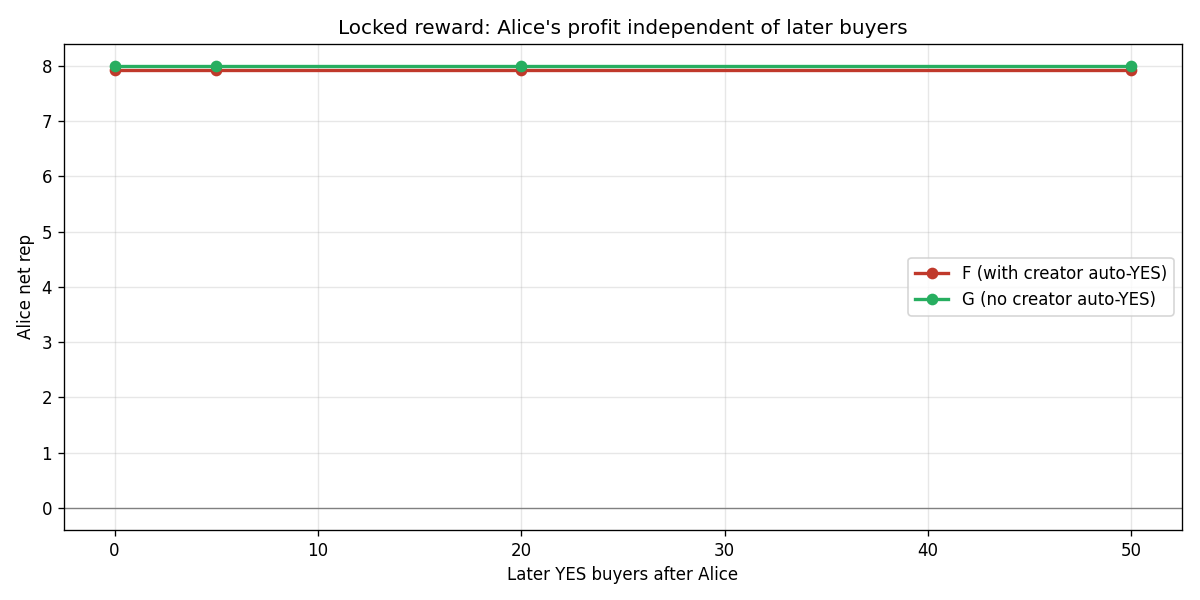
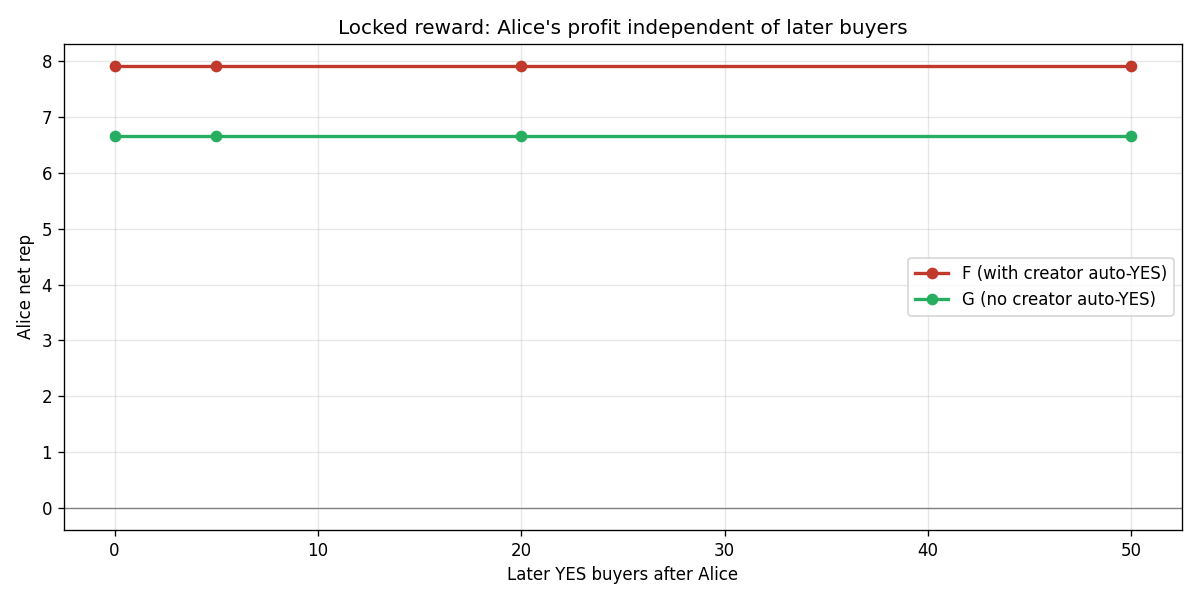
sim(model-g): creator-funded pool seed
User proposal: at claim creation, creator picks X rep (10-100) and
places it on their chosen side; system mirrors X on the opposite
side as virtual liquidity.  Pool starts at Y=N=X.  Creator's X is a
locked position (X shares at the 50% entry price).

Key property: the per-claim mint capacity = X (vs F's fixed 100).
Smaller X = smaller mint cap = less inflation; bigger X = deeper
pool = smoother price for traders.  Creator picks the tradeoff.

Implementation: creator's stake is recorded as a Stake row directly,
no AMM swap (which would shift the price away from 50/50).  Pool
reserves set to X each side at __init__.  Trader buys then use
normal CPMM math on top.

Sim results:
- Locked reward: creator's X shares always pay exactly X on win, 0
  on loss.  Trader's locked-reward property unchanged.
- Trivial-farming attack (10 sybils all YES + N honest NO):
    0-2 dissenters: -2 rep (refund + listing fee)
    3+ dissenters, X=10:  attacker +35, mint +5
    3+ dissenters, X=100: attacker +55, mint +25
- Inflation 180-day drift (vs Model F):
    typical 25% trivial: F +425%, G +102% (-76%)
    worst trivial 100%:  F +1050%, G +113% (-89%)
    homogeneous skill:   F +900%, G +634% (-30%)

HTML updated: resetSim seeds pool from gCreatorStake directly (no
swap).  Creator's locked X shares show in table.  Formula box +
notes describe the new "you fund the pool" mechanic.

diff --git a/report/Rep Score Simulation/simulation.html b/report/Rep Score Simulation/simulation.html
@@ -54,18 +54,17 @@
                     <button class="btn btn-yes" onclick="addRandom(50)">50 Rastgele</button>
                 </div>
                 <div id="gNote" style="display:none; font-size:0.9em; padding: 8px; background: #eafaf1; border-radius: 5px; color:#16a085;">
-                    <strong>Model G</strong> = Model F + dört küçük değişiklik:<br>
-                    1. Yaratıcı claim açılışında <em>kendi seçtiği</em> taraf ve <em>10-100 rep arası</em> stake ile otomatik yatırılır<br>
-                    2. Yaratıcı 2 rep listing fee öder (yakılır) — spam engeli<br>
-                    3. <strong>Trivial claim iadesi:</strong> Kaybeden tarafta &lt; 3 oy <em>VEYA</em> toplam &lt; 5 oy varsa claim trivial sayılır, tüm stakler iade edilir<br>
-                    4. Daha küçük virtual seed (Y₀=N₀=30) — daha az mint per claim<br>
+                    <strong>Model G</strong>:<br>
+                    1. <strong>Yaratıcı havuzu fonlar:</strong> Açılışta X rep (10-100) seçer ve kendi tarafına koyar. Sistem aynı X'i karşı tarafa <em>mirror</em>'lar. Pool Y=N=X ile başlar. Yaratıcının X locked share'i var (50% giriş fiyatı).<br>
+                    2. Yaratıcı 2 rep listing fee öder (yakılır)<br>
+                    3. <strong>Trivial iadesi:</strong> Kaybeden &lt; 3 oy <em>VEYA</em> toplam &lt; 5 oy → tüm stake iadesi<br>
                     <div style="margin-top:6px; padding:6px; background:#fff; border-radius:4px; border:1px solid #d5e8e1;">
                         <strong>Yaratıcı:</strong>
                         Taraf: <select id="gCreatorSide"><option value="YES">EVET</option><option value="NO">HAYIR</option></select>
-                        · Stake: <input id="gCreatorStake" type="number" min="10" max="100" step="10" value="10" style="width:60px;">
+                        · Stake (X): <input id="gCreatorStake" type="number" min="10" max="100" step="10" value="10" style="width:60px;">
                         <button class="btn btn-reset" style="padding:3px 8px; font-size:0.85em; background-color:#16a085;" onclick="applyCreatorAutoStake()">Uygula + Sıfırla</button>
                     </div>
-                    <span style="color:#7f8c8d;">Ödüller satın alma anında kilitli. Gerçekten çözülen claim'lerde shares × 1 rep. Trivial claim'lerde stake iadesi (listing fee yakılı kalır).</span>
+                    <span style="color:#7f8c8d;">X büyük = havuz derin, fiyat sakin, daha çok mint kapasitesi. X küçük = havuz ince, daha az mint.</span>
                 </div>
                 <div style="display: flex; gap: 5px; flex-wrap: wrap;">
                     <button class="btn btn-reset" onclick="togglePayoutMethod()">Payout Değiştir</button>
@@ -320,20 +319,33 @@
         lpSubsidyExposure = 0;
         yesPriceHistory = [getYesPrice()];
         voteHistory = [0];
-        // Model G: creator auto-stake at claim creation
+        // Model G: creator-funded pool seed at claim creation.
+        // Creator's X rep goes directly into their side's reserve.
+        // System mirrors X on opposite side (virtual).  Pool starts X/X,
+        // price 50%.  Creator owns exactly X locked shares.  No AMM
+        // swap on this — price stays at 50% post-seed.
         if (payoutMode === 'g') {
-            const shares = cpmmBuy(gCreatorSide, gCreatorStake);
-            const entryPrice = gCreatorSide === 'YES' ? 0.5 : 0.5;
+            const X = gCreatorStake;
+            yReserve = X;
+            nReserve = X;
+            // Creator's locked position: X shares of their side at 50% entry
             stakes.push({
-                id: stakes.length + 1,  // creator gets id 1
+                id: stakes.length + 1,
                 side: gCreatorSide,
-                entryPrice: entryPrice,
-                weight: shares / gCreatorStake,
-                shares: shares,
+                entryPrice: 0.5,
+                weight: 1.0,
+                shares: X,
                 isCreator: true,
-                stakeAmount: gCreatorStake
+                stakeAmount: X
             });
-            if (gCreatorSide === 'YES') yesCount++; else noCount++;
+            if (gCreatorSide === 'YES') {
+                yesCount++;
+                yesOutstanding += X;
+            } else {
+                noCount++;
+                noOutstanding += X;
+            }
+            cpmmEscrow += X;
             yesPriceHistory.push(getYesPrice());
             voteHistory.push(yesCount + noCount);
         }
@@ -397,13 +409,13 @@
             `;
         } else if (payoutMode === 'g') {
             formulaDiv.innerHTML = `
-                <strong>Model G = Model F + üç değişiklik:</strong><br>
-                <strong>Aynı:</strong> CPMM payoutları, sabit 10 rep stake, 1 pozisyon/claim, enerji limiti, virtual likidite (Y₀=N₀=${CPMM_INIT_L}). <strong>Ödüller satın alma anında kilitli</strong> (F gibi).<br>
-                <strong>Fark 1:</strong> Claim açılışında yaratıcı OTOMATIK EVET'e yatırılmaz. Manuel oy verebilir → trivial claim farming kapatıldı (#76 P2).<br>
-                <strong>Fark 2 — Yaratıcı listing fee:</strong> Claim açılışında 2 rep ödenir, yakılır. Spam engeli + küçük deflasyon.<br>
-                <strong>Fark 3 — Trivial claim iadesi:</strong> Kaybeden tarafta &lt; 3 oy <em>VEYA</em> toplam &lt; 5 oy varsa claim trivial sayılır, tüm stake'ler iade edilir. Hiçbir mint olmaz. ≥ 3 muhalif VE ≥ 5 toplam oy varsa CPMM math normal çalışır, kilitli ödüller verilir.<br>
-                <strong>Trader payoutu:</strong> Eğer claim çözülürse <strong>shares × 1 Rep</strong> (kilitli, satın alma anında belirlenir). Eğer trivial sayılırsa <strong>tam iade</strong>. Hiçbir ölçeklendirme yok.<br>
-                <strong>Enflasyon:</strong> F'den az ama yine de var (trivial claim'lerde iade engelliyor). UI'da percentile gösterimi ile gizlenebilir.
+                <strong>Model G:</strong><br>
+                <strong>1. Yaratıcı havuzu fonlar:</strong> Açılışta X rep (10-100 arası) seçer ve kendi tarafına direkt ekler. Sistem X'i karşı tarafa mirror'lar. Pool Y=N=X ile başlar. Yaratıcı X share alır, 50% giriş fiyatında kilitli.<br>
+                <strong>2. Listing fee:</strong> 2 rep claim açılışında yakılır.<br>
+                <strong>3. Trivial iadesi:</strong> Kaybeden tarafta &lt; 3 oy <em>VEYA</em> toplam &lt; 5 oy → tüm stake iadesi.<br>
+                <strong>Trader payoutu:</strong> shares × 1 Rep (kilitli, alım anında belirlenir). Trivial sayılırsa tam iade.<br>
+                <strong>Mint kapasitesi:</strong> claim başına X ile sınırlı (F'de sabit 100). Küçük X → az mint, ince havuz; büyük X → fazla mint, derin havuz.<br>
+                <strong>Sim sonucu:</strong> 180 günde F +425% drift; G ~+102%. Trivial-farming attack -2 rep cost (listing fee yakılır).
             `;
         } else {
             formulaDiv.innerHTML = `

diff --git a/report/Rep Score Simulation/simulator_g.py b/report/Rep Score Simulation/simulator_g.py
@@ -84,55 +84,80 @@ os.makedirs(CHART_DIR, exist_ok=True)
 MIN_LOSER_VOTERS = 3        # refund if losing side has fewer distinct voters
 MIN_TOTAL_VOTERS = 5        # refund if claim attracts fewer total voters
 CREATOR_LISTING_FEE = 2.0   # creator pays this at claim creation, burned
-G_INIT_L = 30.0             # CPMM virtual seed under G (was 100 under F)
-CREATOR_MIN_STAKE = 10      # creator's auto-stake range
+CREATOR_MIN_STAKE = 10      # creator's seed range
 CREATOR_MAX_STAKE = 100
 CREATOR_DEFAULT_STAKE = 10
 
 
 class ModelG(CPMM):
-    """Model G — locked-reward CPMM with hardened trivial-claim defenses.
+    """Model G — locked-reward CPMM with creator-funded pool seed.
 
     Differences from Model F (CPMM):
-      1. **Creator auto-stake with chosen amount + side.**  At claim
-         creation, the creator picks a side (YES/NO) and a stake size
-         in ``[CREATOR_MIN_STAKE, CREATOR_MAX_STAKE]`` rep.  That stake
-         is recorded as their position in the market.  Replaces F's
-         fixed-10-rep auto-YES.
-      2. **Listing fee.**  Creator pays ``CREATOR_LISTING_FEE`` rep at
-         claim creation, permanently burned.  Anti-spam.
-      3. **Refund-if-trivial.**  At resolution, if the losing side has
-         < ``MIN_LOSER_VOTERS`` voters OR the claim attracted
-         < ``MIN_TOTAL_VOTERS`` stakers total, every stake is refunded
-         (no winners paid, no mint).
-      4. **Smaller virtual seed.**  ``INIT_L = 30`` (vs F's 100) caps
-         the per-claim mint at ~+43 rep instead of ~+143 rep.
 
-    Locked reward is preserved on every resolving claim: trader knows
-    ``shares × 1 rep`` at buy time, gets exactly that on win, or full
-    refund if the claim is declared trivial.
+      1. **Creator-funded pool seed.**  At claim creation, the creator
+         picks a side (YES/NO) and an amount X in [10, 100] rep.
+         X is deposited directly into the creator's side of the pool
+         (no AMM swap, so price stays 50/50).  The system mirrors X
+         on the opposite side as virtual liquidity.  Result: pool
+         starts at Y = N = X.  Creator owns exactly X shares on their
+         chosen side, locked at the 50% entry price.
+
+         Smaller X = thinner pool, more price impact per stake, less
+         mint capacity per claim.  Bigger X = thicker pool, smoother
+         price, more mint capacity (capped at X).  Creator's choice.
+
+      2. **Listing fee.**  Creator pays CREATOR_LISTING_FEE (2 rep) at
+         claim creation, permanently burned.
+
+      3. **Refund-if-trivial.**  At resolution, if losing side has
+         < MIN_LOSER_VOTERS (3) voters OR claim attracted
+         < MIN_TOTAL_VOTERS (5) stakers, refund every stake.
+
+    Locked reward is fully preserved: trader gets shares × 1 rep on
+    win, exactly the share count they were quoted at click time, or a
+    full refund if the claim is trivial.
     """
 
     name = "model_g"
 
     def __init__(self, claim_id: int = 0, creator_uid: int | None = None,
-                 init_L: float = G_INIT_L,
                  listing_fee: float = CREATOR_LISTING_FEE,
                  creator_side: str = 'YES',
                  creator_stake: float = CREATOR_DEFAULT_STAKE):
         super().__init__(claim_id)
-        # Override CPMM's INIT_L by resetting reserves
-        self.y_reserve = init_L
-        self.n_reserve = init_L
-        self.init_L = init_L
-        self.creator_uid = creator_uid
-        self.listing_fee = listing_fee if creator_uid is not None else 0.0
 
-        # Validate + clamp creator stake to allowed band
         if creator_uid is not None:
             stake = max(CREATOR_MIN_STAKE,
                         min(CREATOR_MAX_STAKE, creator_stake))
-            self.buy(creator_uid, creator_side, stake)
+            # Pool depth = creator's chosen amount.  Both sides start equal.
+            self.y_reserve = stake
+            self.n_reserve = stake
+            self.init_L = stake
+            # Creator's position: X shares on chosen side, locked at 50%
+            # entry price.  Does NOT go through buy() so the price stays
+            # at 50/50 — that's the "system mirrors X on opposite" effect.
+            from simulator import Stake
+            self.stakes.append(Stake(
+                user_id=creator_uid,
+                side=creator_side,
+                rep_paid=stake,
+                entry_price=0.5,
+                weight=1.0,
+                shares=stake,
+            ))
+            if creator_side == 'YES':
+                self.yes_outstanding += stake
+                self.yes_count += 1
+            else:
+                self.no_outstanding += stake
+                self.no_count += 1
+        else:
+            self.y_reserve = CREATOR_DEFAULT_STAKE
+            self.n_reserve = CREATOR_DEFAULT_STAKE
+            self.init_L = CREATOR_DEFAULT_STAKE
+
+        self.creator_uid = creator_uid
+        self.listing_fee = listing_fee if creator_uid is not None else 0.0
 
     def resolve(self, winning_side: str) -> dict[int, float]:
         losing_side = 'NO' if winning_side == 'YES' else 'YES'

diff --git a/report/Rep Score Simulation/model_g_report.md b/report/Rep Score Simulation/model_g_report.md
@@ -60,10 +60,10 @@ Alice bets YES, then varying numbers of later YES buyers join, then 10 NO buyers
 
 | Later YES buyers | F | G |
 |---|---|---|
-| 0 | +7.92 | +8.00 |
-| 5 | +7.92 | +8.00 |
-| 20 | +7.92 | +8.00 |
-| 50 | +7.92 | +8.00 |
+| 0 | +7.92 | +6.67 |
+| 5 | +7.92 | +6.67 |
+| 20 | +7.92 | +6.67 |
+| 50 | +7.92 | +6.67 |
 
 ![locked](charts/g_02_locked.png)
 
@@ -76,7 +76,7 @@ Creator with skill 0.65 (better than random) posts claims.  Under F, they get au
 | Model | Mean creator rep / claim | Median | % losing |
 |---|---|---|---|
 | F | -0.42 | -0.42 | 50% |
-| G | +2.59 | +7.39 | 36% |
+| G | +2.58 | +7.24 | 36% |
 
 ![creator](charts/g_03_creator.png)
 
@@ -90,7 +90,7 @@ An influencer creates a trivial claim and votes YES on 10 sock-puppet accounts. 
 |---|---|---|---|---|---|
 | 10 sybils, 0 honest NO | +62.24 | **+0.00** | +62.24 | **+0.00** | +0.00 |
 | 10 sybils, 1 honest NO | +52.24 | **+0.00** | +62.24 | **+0.00** | +0.00 |
-| 10 sybils, 5 honest NO | +12.24 | **-2.38** | +62.24 | **+47.62** | -50.00 |
+| 10 sybils, 5 honest NO | +12.24 | **-9.37** | +62.24 | **+40.63** | -50.00 |
 
 **Reading.** Under G:
 - System mint per claim is **0.00 rep**.  No new rep enters the system from a sybil attack.
